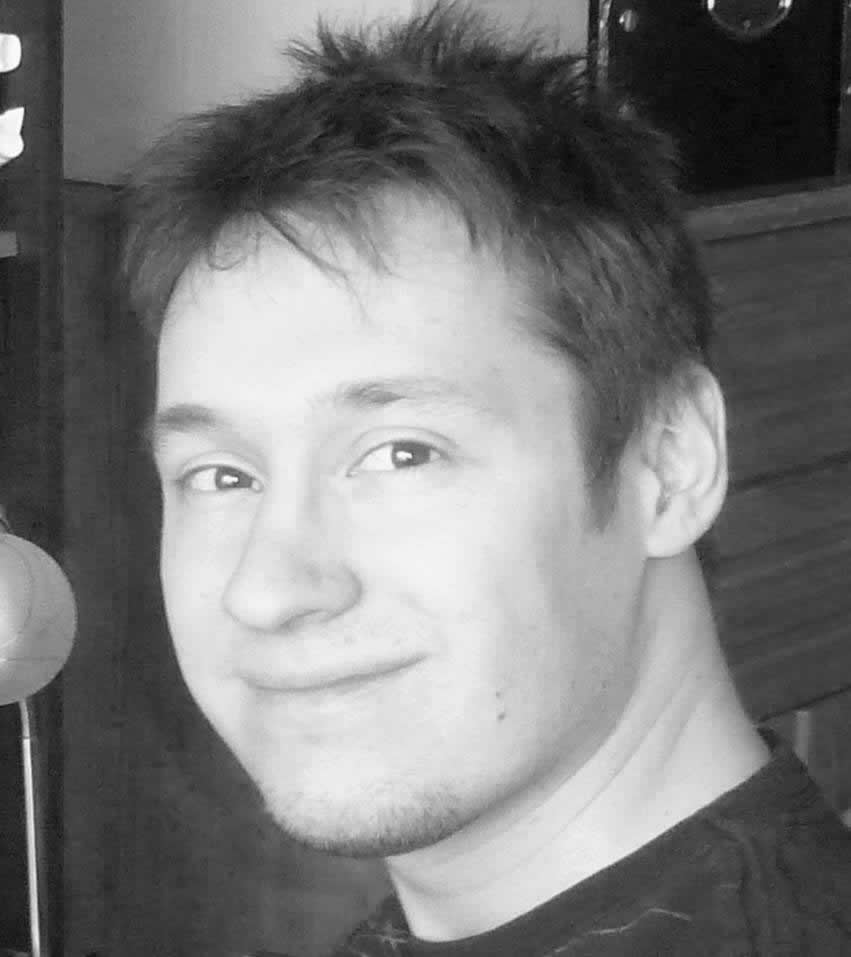
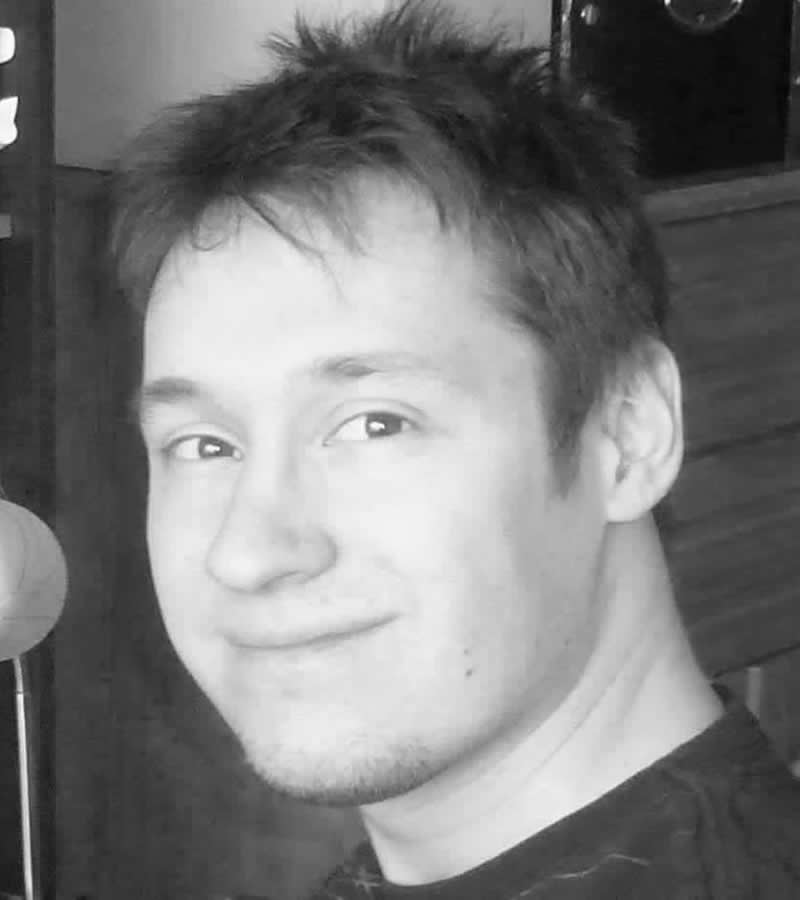
Added image resizer to gulp

diff --git a/gulpfile.js b/gulpfile.js
@@ -12,9 +12,14 @@ var sourcemaps = require('gulp-sourcemaps');
 var autoprefixer = require('gulp-autoprefixer');
 var imagemin = require('gulp-imagemin');
 var pngquant = require('imagemin-pngquant');
+var imageResize = require('gulp-image-resize');
 
 /********************************************************************************
 TASKS
+********************************************************************************/
+
+/********************************************************************************
+JAVASCRIPT
 ********************************************************************************/
 
 gulp.task('less', function () {
@@ -39,6 +44,10 @@ gulp.task('concatJs', function(){
 	.pipe(gulp.dest('./public/js'));
 });
 
+/********************************************************************************
+CSS
+********************************************************************************/
+
 gulp.task('minifyCss', ['less'], function(){
 	return gulp.src('./public/css/app.css')
 		.pipe(sourcemaps.init())
@@ -56,27 +65,79 @@ gulp.task('minifyJs', ['concatJs'], function(){
 		.pipe(gulp.dest('./public/js'));
 });
 
+/********************************************************************************
+PHP
+********************************************************************************/
+
 gulp.task('php', function(){
 	return gulp.src('./src/php/**/*.php')
 		.pipe(gulp.dest('./public/php'));
 });
 
-gulp.task('minifyImages', function(){
-	gulp.src('src/img/**/*.jpg')
-	.pipe(imagemin({
-		progressive: true,
-		svgoPlugins: [{removeViewBox: false}],
-		use: [pngquant()]
-	}))
-	.pipe(gulp.dest('public/img'));
+/********************************************************************************
+IMAGE RESIZE, COMPRESS, COPY
+********************************************************************************/
 
-	gulp.src('src/img/**/*.svg')
-	.pipe(imagemin({
-		progressive: true,
-		svgoPlugins: [{removeViewBox: false}],
-		use: [pngquant()]
-	}))
-	.pipe(gulp.dest('public/img'));
+function resizeImages(sourceDir, destDir, imageSuffixes, imageSizes){
+
+	for(var i = 0; i < imageSizes.length; i++){
+
+		gulp.src(sourceDir)
+		.pipe(imageResize({ 
+			width : imageSizes[i][0],
+			height : imageSizes[i][1],
+			crop : true,
+			upscale : false
+		}))
+		.pipe(imagemin({
+			progressive: true,
+			svgoPlugins: [{removeViewBox: false}],
+			use: [pngquant()]
+		}))
+		.pipe(rename({
+			suffix: imageSuffixes[i]
+		}))
+		.pipe(gulp.dest(destDir))
+
+	}
+
+}
+
+gulp.task('imageResize', function () {
+
+	var sourceDir = 'src/img/badges-skills/**/*.jpg';
+	var destDir = 'public/img/badges-skills';
+	var imageSuffixes = ['-large', '-medium', '-small'];
+	var imageSizes = [[150, 150], [120, 120], [80,80]];
+
+	resizeImages(sourceDir, destDir, imageSuffixes, imageSizes);
+
+	sourceDir = 'src/img/badges-tools/**/*.jpg';
+	destDir = 'public/img/badges-tools';
+	imageSuffixes = ['-large', '-medium', '-small'];
+	imageSizes = [[150, 150], [120, 120], [80,80]];
+
+	resizeImages(sourceDir, destDir, imageSuffixes, imageSizes);
+
+	sourceDir = 'src/img/portfolio/**/*.jpg';
+	destDir = 'public/img/portfolio';
+	imageSuffixes = ['-large', '-medium', '-small'];
+	imageSizes = [[700, 375], [350, 188], [280,150]];
+
+	resizeImages(sourceDir, destDir, imageSuffixes, imageSizes);
+
+	sourceDir = 'src/img/personal-photo-01.jpg';
+	destDir = 'public/img';
+	imageSuffixes = ['', '-large', '-medium', '-small'];
+	imageSizes = [[320, 360], [320, 360], [250, 281], [160,180]];
+
+	resizeImages(sourceDir, destDir, imageSuffixes, imageSizes);
+
+});
+
+gulp.task('copySvg', function () {
+	gulp.src('./src/img/icons/**/*.svg')
+	.pipe(gulp.dest('./public/img/icons'));
 
 });
 
@@ -87,7 +148,7 @@ WATCH
 gulp.task('watch', function(){
 	gulp.watch('./src/less/**/*.less', ['minifyCss']);
 	gulp.watch('./src/js/**/*.js', ['minifyJs']);
-	gulp.watch('./src/img/*', ['minifyImages']);
+	gulp.watch('./src/img/*', ['imageResize', 'copySvg']);
 	gulp.watch('./src/php/**/*.php', ['php']);
 });
 
@@ -95,4 +156,4 @@ gulp.task('watch', function(){
 DEFAULT
 ********************************************************************************/
 
-gulp.task('default', ['minifyCss', 'minifyJs', 'minifyImages', 'php', 'watch']);
+gulp.task('default', ['minifyCss', 'minifyJs', 'imageResize', 'copySvg', 'php', 'watch']);
